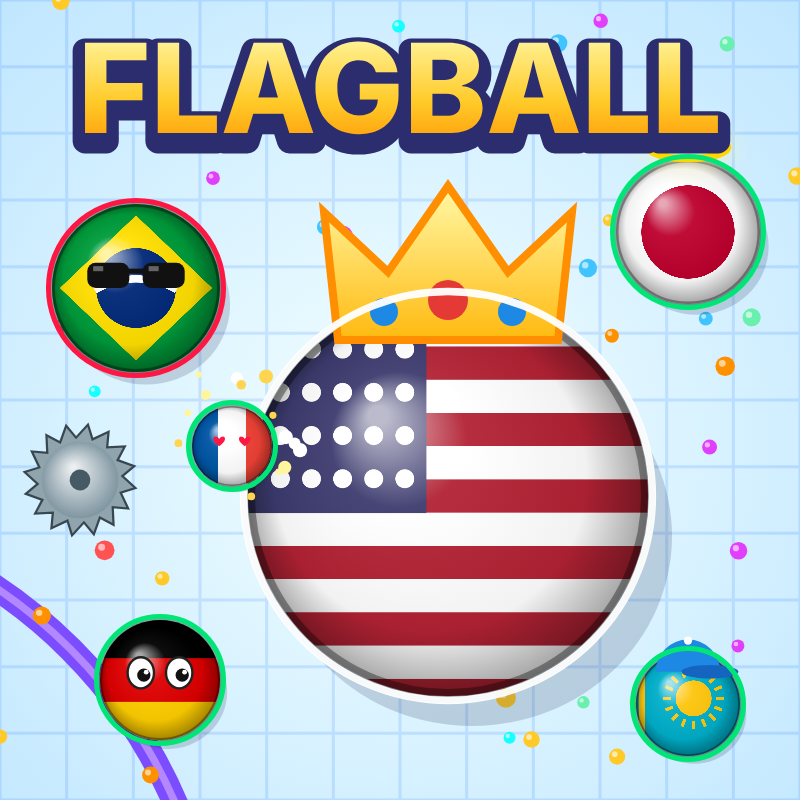
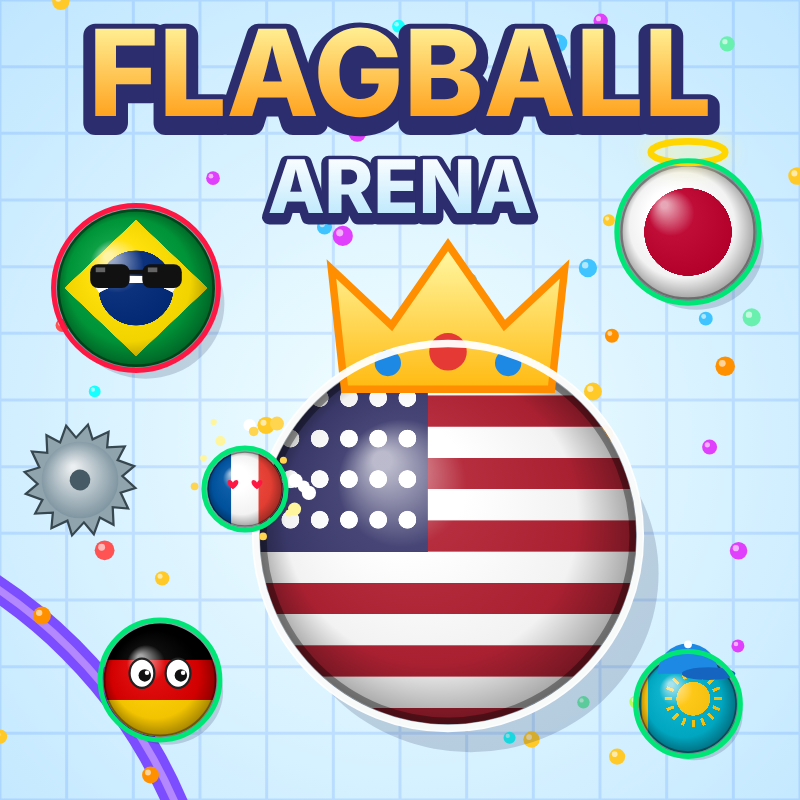
Flagball Arena 1.2.1: название как у канала, wss на 443 с передачей проверки Let's Encrypt в lego, новые обложки
Claude-Session: https://claude.ai/code/session_01WYD119ARkeVwakcTDPC31F

diff --git a/online/server.js b/online/server.js
@@ -14,7 +14,7 @@ const os = require('os');
 const path = require('path');
 
 const PORT = +process.env.PORT || 8091;
-const VERSION = '1.2';
+const VERSION = '1.2.1';
 const ROUND_LEN = +process.env.ROUND_LEN || 180; // раунд стран, секунд
 const MAX_ACC = 12;                               // номера украшений (шапки, очки…)
 const STATE_FILE = process.env.STATE_FILE || path.join(os.tmpdir(), 'ballio-day.json');
@@ -294,7 +294,7 @@ function httpHandler(req, res) {
   if (req.url.indexOf('/health') === 0) {
     let h = 0; for (const r of rooms.values()) h += r.clients.size;
     res.setHeader('Content-Type', 'application/json; charset=utf-8');
-    res.end(JSON.stringify({ ok: 1, v: VERSION, rooms: rooms.size, players: h, sockets: allWs.size }));
+    res.end(JSON.stringify({ ok: 1, v: VERSION, rooms: rooms.size, players: h, sockets: allWs.size, tls: tlsUntil || undefined }));
     return;
   }
   if (req.url.indexOf('/day') === 0) {
@@ -318,18 +318,87 @@ server.on('upgrade', onUpgrade);
 server.listen(PORT, () => console.log('ballio ' + VERSION + ' on :' + PORT));
 
 // защищённое подключение (wss) — нужно площадкам на https (CrazyGames и др.).
-// Включается, только если есть сертификат: TLS_CERT / TLS_KEY. Сертификат на IP живёт ~6 дней,
-// поэтому файл перечитываем каждые 6 часов без перезапуска.
+// Включается, только если есть сертификат: TLS_CERT / TLS_KEY (порт TLS_PORT, на сервере — 443).
+// Сертификат на IP живёт ~6 дней: продлевает lego, файл перечитываем без перезапуска.
+// ACME_ALPN_PORT: проверочные подключения Let's Encrypt (ALPN «acme-tls/1») передаём lego на этот порт,
+// чтобы продление шло, пока игра работает на 443.
 const TLS_CERT = process.env.TLS_CERT || '', TLS_KEY = process.env.TLS_KEY || '', TLS_PORT = +process.env.TLS_PORT || 8443;
+const ACME_PORT = +process.env.ACME_ALPN_PORT || 0;
+let tlsUntil = '';
+// есть ли в первом пакете TLS (ClientHello) протокол acme-tls/1
+function isAcmeHello(b) {
+  try {
+    if (b[0] !== 0x16 || b[5] !== 0x01) return false;
+    let p = 43; p += 1 + b[p];               // session id
+    p += 2 + b.readUInt16BE(p);              // шифры
+    p += 1 + b[p];                           // сжатие
+    const end = Math.min(b.length, p + 2 + b.readUInt16BE(p)); p += 2;
+    while (p + 4 <= end) {
+      const type = b.readUInt16BE(p), len = b.readUInt16BE(p + 2); p += 4;
+      if (type === 16) { // ALPN
+        let q = p + 2; const qe = Math.min(end, p + 2 + b.readUInt16BE(p));
+        while (q < qe) { const l = b[q]; if (b.toString('latin1', q + 1, q + 1 + l) === 'acme-tls/1') return true; q += 1 + l; }
+        return false;
+      }
+      p += len;
+    }
+  } catch (e) { /* битый пакет — обычное подключение */ }
+  return false;
+}
 if (TLS_CERT && TLS_KEY) {
   try {
-    const https = require('https');
+    const tls = require('tls'), net = require('net'), { Duplex } = require('stream');
     const opts = () => ({ cert: fs.readFileSync(TLS_CERT), key: fs.readFileSync(TLS_KEY) });
-    const tlsServer = https.createServer(opts(), httpHandler);
-    tlsServer.on('upgrade', onUpgrade);
-    tlsServer.on('tlsClientError', () => { /* сканеры и обрывы — не шумим */ });
-    tlsServer.listen(TLS_PORT, () => console.log('ballio wss on :' + TLS_PORT));
-    setInterval(() => { try { tlsServer.setSecureContext(opts()); } catch (e) { console.log('tls reload failed', e.message); } }, 6 * 3600 * 1000);
+    const readUntil = () => { try { tlsUntil = new crypto.X509Certificate(fs.readFileSync(TLS_CERT)).validTo; } catch (e) { tlsUntil = '?'; } };
+    let secureContext = tls.createSecureContext(opts()); readUntil();
+    // http-сервер без своего порта: в него отдаём уже расшифрованные подключения
+    const inner = http.createServer(httpHandler); inner.on('upgrade', onUpgrade);
+    const serveTls = (sock, first) => {
+      // обёртка над сокетом: возвращаем прочитанный первый пакет и дальше передаём всё как есть
+      const d = new Duplex({
+        read() { sock.resume(); },
+        write(c, e, cb) { if (sock.destroyed) return cb(); sock.write(c, e, cb); },
+        final(cb) { sock.end(); cb(); },
+        destroy(err, cb) { sock.destroy(); cb(err); },
+      });
+      sock.on('data', (c) => { if (!d.push(c)) sock.pause(); });
+      sock.on('end', () => d.push(null));
+      sock.on('close', () => d.destroy());
+      d.push(first);
+      const ts = new tls.TLSSocket(d, { isServer: true, secureContext, ALPNProtocols: ['http/1.1'] });
+      Object.defineProperty(ts, 'remoteAddress', { value: sock.remoteAddress });
+      ts.on('error', () => ts.destroy());
+      inner.emit('connection', ts);
+      sock.resume();
+    };
+    // перед TLS смотрим первый пакет: проверку Let's Encrypt — в lego, всё остальное — в игру
+    const front = net.createServer((sock) => {
+      let buf = Buffer.alloc(0), done = false;
+      sock.on('error', () => { /* */ });
+      const route = (acme) => {
+        if (done) return; done = true; clearTimeout(timer); sock.removeListener('data', onData); sock.pause();
+        if (acme && ACME_PORT) {
+          const up = net.connect(ACME_PORT, '127.0.0.1', () => { up.write(buf); sock.pipe(up); up.pipe(sock); sock.resume(); });
+          up.on('error', () => sock.destroy()); sock.on('close', () => up.destroy());
+          return;
+        }
+        serveTls(sock, buf);
+      };
+      const onData = (d) => {
+        buf = Buffer.concat([buf, d]);
+        if (buf.length < 5) return;
+        if (buf[0] !== 0x16) return route(false);
+        if (buf.length >= 5 + buf.readUInt16BE(3) || buf.length > 16384) route(isAcmeHello(buf));
+      };
+      const timer = setTimeout(() => route(false), 4000);
+      sock.on('data', onData);
+    });
+    front.on('error', (e) => console.log('wss port error:', e.message));
+    front.listen(TLS_PORT, () => console.log('ballio wss on :' + TLS_PORT + (ACME_PORT ? ' (acme → ' + ACME_PORT + ')' : '')));
+    let certM = 0; try { certM = fs.statSync(TLS_CERT).mtimeMs; } catch (e) { /* */ }
+    setInterval(() => {
+      try { const m = fs.statSync(TLS_CERT).mtimeMs; if (m !== certM) { certM = m; secureContext = tls.createSecureContext(opts()); readUntil(); console.log('tls cert reloaded, until', tlsUntil); } } catch (e) { console.log('tls reload failed', e.message); }
+    }, 5 * 60 * 1000);
   } catch (e) { console.log('tls off:', e.message); }
 }
 

diff --git a/online/game.js b/online/game.js
@@ -1,5 +1,5 @@
 'use strict';
-/* Flagball — онлайн-«Шарики»: живые игроки + боты, страны соревнуются в раундах.
+/* Flagball Arena — онлайн-«Шарики»: живые игроки + боты, страны соревнуются в раундах.
    Свой шарик двигается сразу (без задержки), сервер только проверяет его.
    Монеты, украшения, подарок по таймеру, возрождение и «x2» за рекламу — по правилам CrazyGames. */
 (function () {
@@ -26,7 +26,7 @@
       half: '50% size', x2: 'Coins x2', shop: 'Shop', free: 'Free', owned: 'Owned', on: 'On', gift: 'Free gift!', giftIn: 'Gift in',
       openNow: 'Open now', noCoins: 'Not enough coins', tomorrow: 'More coins tomorrow', close: 'Close', pick: 'Pick your country',
       name: 'Your name', play: 'Play', hint: 'Green ring — you can eat it, red — run! Yellow name — a real player. Every point you grow counts for your country.',
-      adsOff: 'Ads are blocked — coin options still work', title: 'Flagball', team: 'for', change: 'Country',
+      adsOff: 'Ads are blocked — coin options still work', title: 'Flagball Arena', team: 'for', change: 'Country',
     },
     ru: {
       conn: 'Подключаюсь к арене…', att: 'попытка', slow: 'Долго? Проверь интернет или переключись Wi-Fi ↔ мобильный',
@@ -36,7 +36,7 @@
       half: 'с половиной массы', x2: 'Монеты x2', shop: 'Магазин', free: 'Даром', owned: 'Есть', on: 'Надето', gift: 'Подарок!', giftIn: 'Подарок через',
       openNow: 'Открыть сейчас', noCoins: 'Не хватает монет', tomorrow: 'Ещё монеты — завтра', close: 'Закрыть', pick: 'Выбери страну',
       name: 'Твоё имя', play: 'Играть', hint: 'Зелёное кольцо — можно съесть, красное — беги. Жёлтое имя — живой игрок. Всё, что ты наберёшь, идёт в зачёт твоей стране.',
-      adsOff: 'Реклама недоступна — за монеты всё работает', title: 'Флагбол', team: 'за', change: 'Страна',
+      adsOff: 'Реклама недоступна — за монеты всё работает', title: 'Flagball Arena', team: 'за', change: 'Страна',
     },
   };
   const LANG = (C.lang || 'en').slice(0, 2) === 'ru' ? 'ru' : 'en';

diff --git a/art/cover.html b/art/cover.html
@@ -31,8 +31,8 @@
   }
   // композиция в долях кадра (подстраивается под 16:9, 2:3, 1:1)
   const land = W / H > 1.2, port = W / H < 0.9;
-  const big = land ? 0.3 * H : port ? 0.3 * W : 0.25 * W;
-  const bx = land ? W * 0.62 : W * 0.56, by = land ? H * 0.6 : port ? H * 0.58 : H * 0.62;
+  const big = land ? 0.3 * H : port ? 0.3 * W : 0.235 * W;
+  const bx = land ? W * 0.62 : W * 0.56, by = land ? H * 0.6 : port ? H * 0.6 : H * 0.67;
   saw(land ? W * 0.08 : W * 0.1, land ? H * 0.86 : H * 0.6, 70 * S);
   ball(land ? W * 0.18 : W * 0.17, land ? H * 0.5 : port ? H * 0.33 : H * 0.36, big * 0.42, 'BR', 5, '#ff1744');
   ball(land ? W * 0.9 : W * 0.86, land ? H * 0.28 : port ? H * 0.27 : H * 0.29, big * 0.36, 'JP', 8, '#00e676');
@@ -45,12 +45,17 @@
   // искры
   for (let i = 0; i < 14; i++) { const a = rnd() * 6.28, d = big * 0.25 + rnd() * big * 0.15; ctx.fillStyle = ['#ffd54f', '#fff59d', '#ffffff'][i % 3]; ctx.beginPath(); ctx.arc(sx + Math.cos(a) * d, sy + Math.sin(a) * d, (4 + rnd() * 6) * S, 0, 7); ctx.fill(); }
   if (withTitle) {
-    const fs = land ? 190 * S : W * 0.155;
-    const tx = land ? W * 0.31 : W * 0.5, ty = land ? H * 0.2 : port ? H * 0.11 : H * 0.12;
-    ctx.save(); ctx.font = C.font(fs); ctx.textAlign = 'center'; ctx.textBaseline = 'middle'; ctx.lineJoin = 'round';
-    ctx.lineWidth = fs * 0.2; ctx.strokeStyle = '#2b2d6e'; ctx.strokeText('FLAGBALL', tx, ty + fs * 0.06);
-    const tg = ctx.createLinearGradient(0, ty - fs * 0.5, 0, ty + fs * 0.5); tg.addColorStop(0, '#fff59d'); tg.addColorStop(0.55, '#ffca28'); tg.addColorStop(1, '#ff8f00');
-    ctx.fillStyle = tg; ctx.fillText('FLAGBALL', tx, ty);
+    const fs = land ? 180 * S : W * 0.15;
+    const tx = land ? W * 0.3 : W * 0.5, ty = land ? H * 0.17 : port ? H * 0.09 : H * 0.1;
+    const word = (txt, x, y, f, g0, g1) => {
+      ctx.font = C.font(f); ctx.textAlign = 'center'; ctx.textBaseline = 'middle'; ctx.lineJoin = 'round';
+      ctx.lineWidth = f * 0.2; ctx.strokeStyle = '#2b2d6e'; ctx.strokeText(txt, x, y + f * 0.06);
+      const tg = ctx.createLinearGradient(0, y - f * 0.5, 0, y + f * 0.5); tg.addColorStop(0, g0); tg.addColorStop(1, g1);
+      ctx.fillStyle = tg; ctx.fillText(txt, x, y);
+    };
+    ctx.save();
+    word('FLAGBALL', tx, ty, fs, '#fff59d', '#ff8f00');
+    word('ARENA', tx, ty + fs * 0.92, fs * 0.62, '#ffffff', '#b3e5fc');
     ctx.restore();
   }
   window.__done = true;

diff --git a/online/index.html b/online/index.html
@@ -4,7 +4,7 @@
 <meta charset="utf-8">
 <meta name="viewport" content="width=device-width,initial-scale=1,maximum-scale=1,user-scalable=no">
 <meta name="robots" content="noindex, nofollow">
-<title>Flagball</title>
+<title>Flagball Arena</title>
 <style>
   html,body{margin:0;height:100%;overflow:hidden;background:#2b2d6e;touch-action:none;user-select:none;-webkit-user-select:none;-webkit-touch-callout:none;-webkit-tap-highlight-color:transparent;font-family:system-ui,-apple-system,"Segoe UI",Roboto,Arial,sans-serif}
   canvas{display:block;width:100vw;height:100vh;touch-action:none}
@@ -24,7 +24,7 @@
 <body>
 <canvas id="c"></canvas>
 <div id="join"><div class="box">
-  <h1 id="jt">Flagball</h1>
+  <h1 id="jt">Flagball Arena</h1>
   <input id="nick" maxlength="14" autocomplete="off">
   <div id="flags"></div>
   <div id="cn"></div>
@@ -46,7 +46,7 @@
     if (!built) {
       built = true;
       o.flags.forEach((id) => { const im = document.createElement('img'); try { im.src = C.flagTex(id).toDataURL(); } catch (e) { /* */ } im.alt = id; im.onclick = () => { pick = id; mark(); }; box.appendChild(im); });
-      const go = () => { const n = el('nick').value.trim().slice(0, 14) || o.nick || ''; el('join').style.display = 'none'; window.__join(n || ((T === undefined) ? 'Player' : (T.title === 'Флагбол' ? 'Игрок' : 'Player')), pick); };
+      const go = () => { const n = el('nick').value.trim().slice(0, 14) || o.nick || ''; el('join').style.display = 'none'; window.__join(n || ((T === undefined) ? 'Player' : (T.change === 'Страна' ? 'Игрок' : 'Player')), pick); };
       el('go').onclick = go;
       el('nick').addEventListener('keydown', (e) => { if (e.key === 'Enter') go(); });
     }
